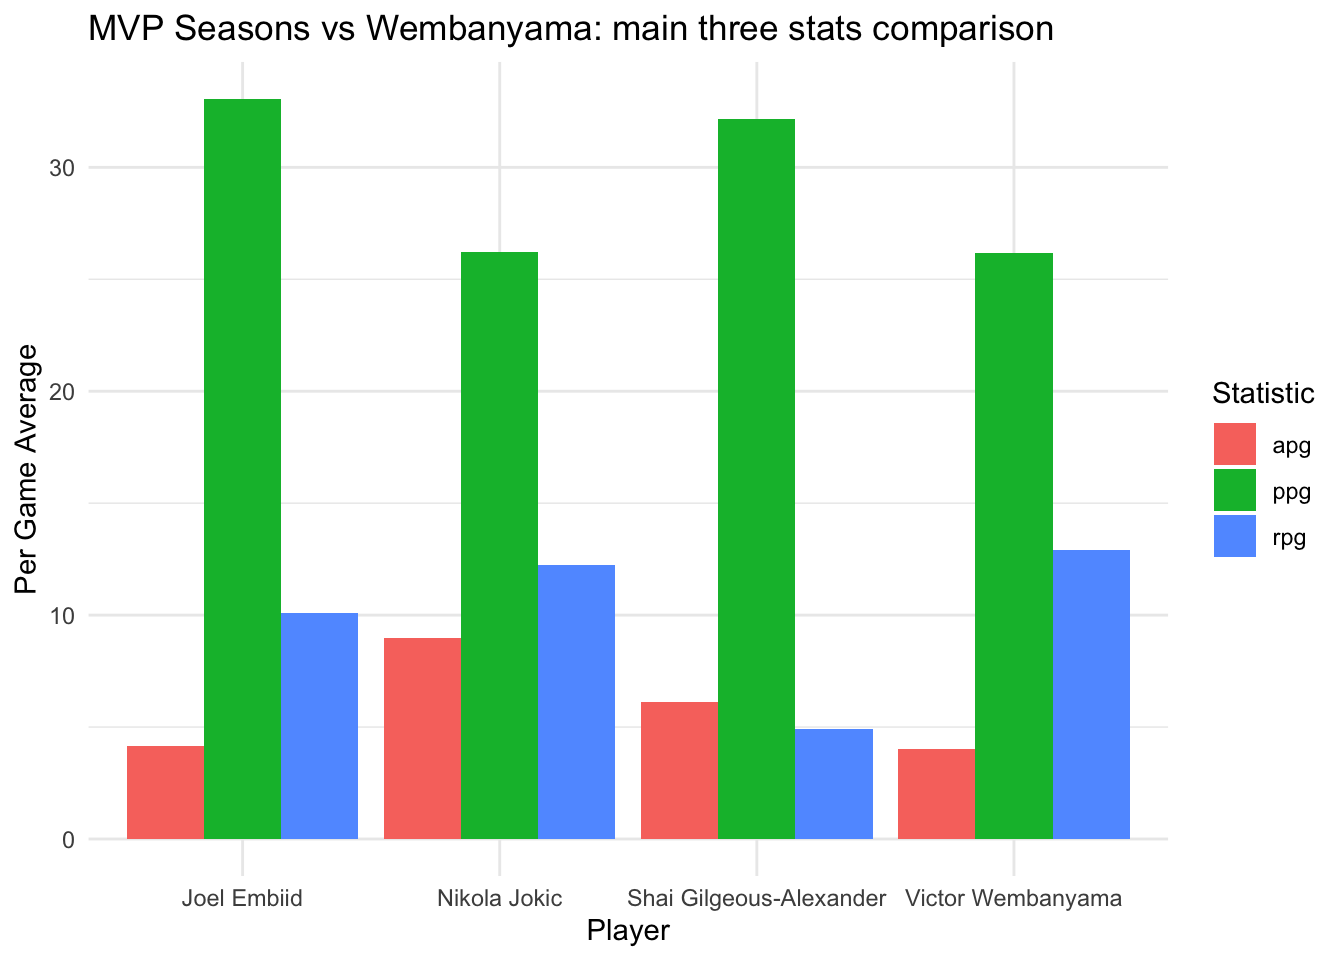
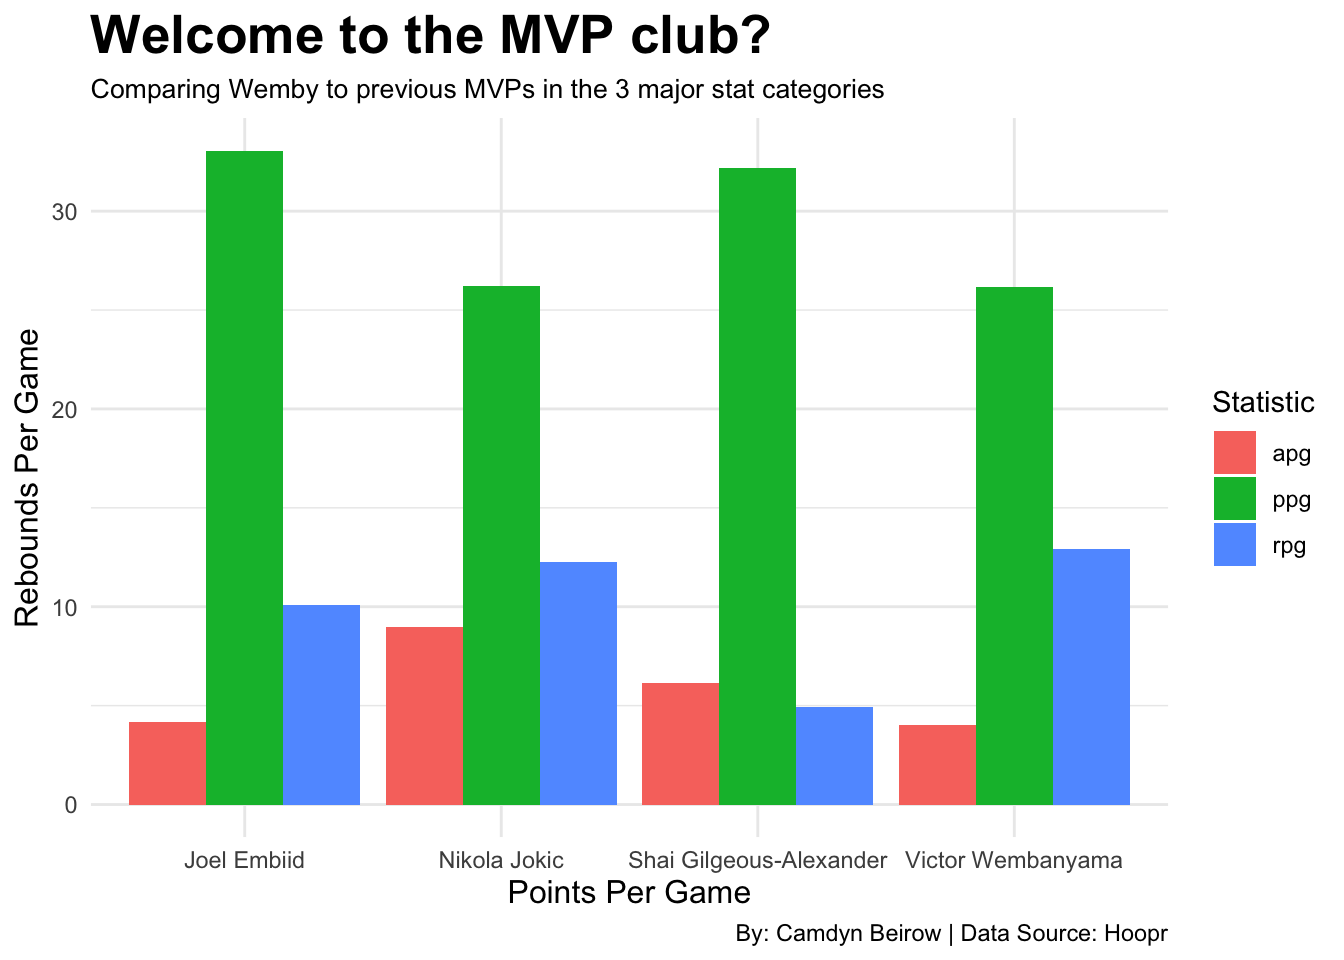
Proof1

diff --git a/posts/wembys-case-for-mvp/index.html b/posts/wembys-case-for-mvp/index.html
@@ -9,7 +9,7 @@
 <meta name="author" content="Camdyn Beirow">
 <meta name="dcterms.date" content="2025-11-04">
 
-<title>Will Victor Wembanyama be the 2026 NBA MVP? – Camdyn’s Sport Blog</title>
+<title>Victor Wembanyama and his case for 2026 NBA MVP – Camdyn’s Sport Blog</title>
 <style>
 code{white-space: pre-wrap;}
 span.smallcaps{font-variant: small-caps;}
@@ -149,7 +149,7 @@ pre > code.sourceCode > span > a:first-child::before { text-decoration: underlin
 <header id="title-block-header" class="quarto-title-block default page-columns page-full">
   <div class="quarto-title-banner page-columns page-full">
     <div class="quarto-title column-body">
-      <h1 class="title">Will Victor Wembanyama be the 2026 NBA MVP?</h1>
+      <h1 class="title">Victor Wembanyama and his case for 2026 NBA MVP</h1>
                                 <div class="quarto-categories">
                 <div class="quarto-category">NBA</div>
                 <div class="quarto-category">Wembanyama</div>
@@ -189,7 +189,7 @@ pre > code.sourceCode > span > a:first-child::before { text-decoration: underlin
 
 
 
-<p>Victor Wembanyama is the closest thing to an alien we have ever seen. The French big man stands at 7’4 and is putting up MVP numbers in his third season with the San Antonio Spurs. compared to the former NBA MVPs, it appears that Wemby could very well be on pace to win the league’s highest honor.</p>
+<p>Victor Wembanyama is the closest thing to an alien we have ever seen. The French big man stands at 7’4 and is putting up MVP numbers in his third season with the San Antonio Spurs. compared to the former NBA MVPs stats, it appears that Wemby could very well be on pace to win the league’s highest honor if he keeps up or even improves on his stats.</p>
 <div class="cell">
 <details class="code-fold">
 <summary>Code</summary>
@@ -307,7 +307,17 @@ pre > code.sourceCode > span > a:first-child::before { text-decoration: underlin
 <span id="cb1-112"><a href="#cb1-112" aria-hidden="true" tabindex="-1"></a>       <span class="at">x =</span> <span class="st">"Player"</span>,</span>
 <span id="cb1-113"><a href="#cb1-113" aria-hidden="true" tabindex="-1"></a>       <span class="at">y =</span> <span class="st">"Per Game Average"</span>,</span>
 <span id="cb1-114"><a href="#cb1-114" aria-hidden="true" tabindex="-1"></a>       <span class="at">fill =</span> <span class="st">"Statistic"</span>) <span class="sc">+</span></span>
-<span id="cb1-115"><a href="#cb1-115" aria-hidden="true" tabindex="-1"></a>  <span class="fu">theme_minimal</span>()</span></code><button title="Copy to Clipboard" class="code-copy-button"><i class="bi"></i></button></pre></div>
+<span id="cb1-115"><a href="#cb1-115" aria-hidden="true" tabindex="-1"></a>  <span class="fu">labs</span>(<span class="at">title =</span> <span class="st">"Welcome to the MVP club?"</span>,</span>
+<span id="cb1-116"><a href="#cb1-116" aria-hidden="true" tabindex="-1"></a>       <span class="at">subtitle =</span> <span class="st">"Comparing Wemby to previous MVPs in the 3 major stat categories"</span>,</span>
+<span id="cb1-117"><a href="#cb1-117" aria-hidden="true" tabindex="-1"></a>       <span class="at">x =</span> <span class="st">"Points Per Game"</span>,</span>
+<span id="cb1-118"><a href="#cb1-118" aria-hidden="true" tabindex="-1"></a>       <span class="at">y =</span> <span class="st">"Rebounds Per Game"</span>,</span>
+<span id="cb1-119"><a href="#cb1-119" aria-hidden="true" tabindex="-1"></a>       <span class="at">caption =</span> <span class="st">"By: Camdyn Beirow | Data Source: Hoopr"</span>) <span class="sc">+</span></span>
+<span id="cb1-120"><a href="#cb1-120" aria-hidden="true" tabindex="-1"></a>  <span class="fu">theme_minimal</span>() <span class="sc">+</span> </span>
+<span id="cb1-121"><a href="#cb1-121" aria-hidden="true" tabindex="-1"></a>  <span class="fu">theme</span>(</span>
+<span id="cb1-122"><a href="#cb1-122" aria-hidden="true" tabindex="-1"></a>    <span class="at">plot.title =</span> <span class="fu">element_text</span>(<span class="at">size =</span> <span class="dv">20</span>, <span class="at">face =</span> <span class="st">"bold"</span>),</span>
+<span id="cb1-123"><a href="#cb1-123" aria-hidden="true" tabindex="-1"></a>    <span class="at">axis.title =</span> <span class="fu">element_text</span>(<span class="at">size =</span> <span class="dv">12</span>), </span>
+<span id="cb1-124"><a href="#cb1-124" aria-hidden="true" tabindex="-1"></a>    <span class="at">plot.subtitle =</span> <span class="fu">element_text</span>(<span class="at">size=</span><span class="dv">10</span>)</span>
+<span id="cb1-125"><a href="#cb1-125" aria-hidden="true" tabindex="-1"></a>    ) </span></code><button title="Copy to Clipboard" class="code-copy-button"><i class="bi"></i></button></pre></div>
 </details>
 <div class="cell-output-display">
 <div>
@@ -317,7 +327,7 @@ pre > code.sourceCode > span > a:first-child::before { text-decoration: underlin
 </div>
 </div>
 </div>
-<p>Wembanyama’s Point, Assist, and Rebound averages are shown above in comparison to the previous three MVP’s averages when they won the honor.</p>
+<p>Wembanyama’s Point , Assist, and Rebound averages are shown above in comparison to the previous three MVP’s averages when they won the honor. While early into the 2026 season, Wemby’s 26.2 points per game and 12.9 rebounds per game is keeping pace in points per game and rebounds per game with Denver Nuggets center Nikola Jokic’s during his 2024 MVP season. Joel Embiid’s 2023 season only saw him play in 39 games, less than half of the NBA season, potentially boosting his average stats.</p>
 <div class="cell">
 <details class="code-fold">
 <summary>Code</summary>
@@ -333,8 +343,8 @@ pre > code.sourceCode > span > a:first-child::before { text-decoration: underlin
 <span id="cb2-10"><a href="#cb2-10" aria-hidden="true" tabindex="-1"></a>  <span class="fu">geom_text</span>(<span class="at">data =</span> wemby26avg, <span class="fu">aes</span>(<span class="at">x =</span> <span class="dv">28</span>, <span class="at">y =</span> <span class="fl">13.4</span>, <span class="at">label =</span> <span class="st">"Victor Wembanyama"</span>),</span>
 <span id="cb2-11"><a href="#cb2-11" aria-hidden="true" tabindex="-1"></a>    <span class="at">size =</span> <span class="dv">3</span></span>
 <span id="cb2-12"><a href="#cb2-12" aria-hidden="true" tabindex="-1"></a>  ) <span class="sc">+</span></span>
-<span id="cb2-13"><a href="#cb2-13" aria-hidden="true" tabindex="-1"></a>  <span class="fu">labs</span>(<span class="at">title =</span> <span class="st">"2026 NBA Points and Rebound Averages"</span>,</span>
-<span id="cb2-14"><a href="#cb2-14" aria-hidden="true" tabindex="-1"></a>       <span class="at">subtitle =</span> <span class="st">"When it comes to points and rebounding, wemby is among little company"</span>,</span>
+<span id="cb2-13"><a href="#cb2-13" aria-hidden="true" tabindex="-1"></a>  <span class="fu">labs</span>(<span class="at">title =</span> <span class="st">"Among Little Company"</span>,</span>
+<span id="cb2-14"><a href="#cb2-14" aria-hidden="true" tabindex="-1"></a>       <span class="at">subtitle =</span> <span class="st">"When it comes to scoring and rebounding, wemby is joined by elite few in the modern era"</span>,</span>
 <span id="cb2-15"><a href="#cb2-15" aria-hidden="true" tabindex="-1"></a>       <span class="at">x =</span> <span class="st">"Points Per Game"</span>,</span>
 <span id="cb2-16"><a href="#cb2-16" aria-hidden="true" tabindex="-1"></a>       <span class="at">y =</span> <span class="st">"Rebounds Per Game"</span>,</span>
 <span id="cb2-17"><a href="#cb2-17" aria-hidden="true" tabindex="-1"></a>       <span class="at">caption =</span> <span class="st">"By: Camdyn Beirow | Data Source: Hoopr"</span>) <span class="sc">+</span></span>
@@ -353,7 +363,7 @@ pre > code.sourceCode > span > a:first-child::before { text-decoration: underlin
 </div>
 </div>
 </div>
-<p>sdfghjkl./lkjhgfd</p>
+<p>Looking at the 2026 NBA seasons points per game and rebounds per game, Wemby is exceeding a majority of his peers. Among his peers with a minimum of 15 points per game, wemby sits among the top, sharing the top shelf with Nikola Jokic, who is to his right. In terms of NBA big men, Wembanyama is setting the standard for modern players.</p>
 <div class="cell">
 <details class="code-fold">
 <summary>Code</summary>
@@ -362,7 +372,7 @@ pre > code.sourceCode > span > a:first-child::before { text-decoration: underlin
 <span id="cb3-3"><a href="#cb3-3" aria-hidden="true" tabindex="-1"></a>  <span class="fu">geom_step</span>(<span class="at">linewidth =</span> <span class="fl">1.2</span>) <span class="sc">+</span></span>
 <span id="cb3-4"><a href="#cb3-4" aria-hidden="true" tabindex="-1"></a>  <span class="fu">geom_point</span>(<span class="at">size =</span> <span class="dv">2</span>) <span class="sc">+</span></span>
 <span id="cb3-5"><a href="#cb3-5" aria-hidden="true" tabindex="-1"></a>  <span class="fu">labs</span>(<span class="at">title =</span> <span class="st">"Wemby's Stock is Through the Roof"</span>,</span>
-<span id="cb3-6"><a href="#cb3-6" aria-hidden="true" tabindex="-1"></a>       <span class="at">subtitle =</span> <span class="st">"And not just his value, but his Stock Steal and Block stat combo towers among his former MVP peers"</span>,</span>
+<span id="cb3-6"><a href="#cb3-6" aria-hidden="true" tabindex="-1"></a>       <span class="at">subtitle =</span> <span class="st">"Wemby's Steals and Blocks, or stocks, stat combo towers among his former MVP peers"</span>,</span>
 <span id="cb3-7"><a href="#cb3-7" aria-hidden="true" tabindex="-1"></a>       <span class="at">x =</span> <span class="st">"Games"</span>, </span>
 <span id="cb3-8"><a href="#cb3-8" aria-hidden="true" tabindex="-1"></a>       <span class="at">y =</span> <span class="st">"Cumulative Stocks (Steals + Blocks)"</span>,</span>
 <span id="cb3-9"><a href="#cb3-9" aria-hidden="true" tabindex="-1"></a>       <span class="at">caption =</span> <span class="st">"By: Camdyn Beirow | Data Source: Hoopr"</span>) <span class="sc">+</span></span>
@@ -383,6 +393,7 @@ pre > code.sourceCode > span > a:first-child::before { text-decoration: underlin
 </div>
 </div>
 </div>
+<p>If defense wins championships, then defense must also matter in the MVP discussion. Wemby’s steals and blocks, also known as “stocks”, towers above the previous MVP winners numbers through their first ten games in the season. During his first ten games, Wemby’s single-game high in stocks was 9 against the Brooklyn Nets, while also scoring 31 points on the offensive side. during his 10 game strech, Wemby has more stocks than the last two big men MVP winners combined in that strech.</p>
 <div class="cell">
 <details class="code-fold">
 <summary>Code</summary>
@@ -391,16 +402,21 @@ pre > code.sourceCode > span > a:first-child::before { text-decoration: underlin
 <span id="cb4-3"><a href="#cb4-3" aria-hidden="true" tabindex="-1"></a>  <span class="fu">geom_point</span>(<span class="at">data =</span> wemby_fg_minutes, <span class="fu">aes</span>(<span class="at">x =</span> ppg, <span class="at">y =</span> fg_pct, <span class="at">size =</span> mpg), </span>
 <span id="cb4-4"><a href="#cb4-4" aria-hidden="true" tabindex="-1"></a>             <span class="at">color =</span> <span class="st">"red"</span>, <span class="at">alpha =</span> <span class="dv">1</span>) <span class="sc">+</span></span>
 <span id="cb4-5"><a href="#cb4-5" aria-hidden="true" tabindex="-1"></a>  <span class="fu">geom_text</span>(<span class="at">data =</span> wemby_fg_minutes, <span class="fu">aes</span>(<span class="at">label =</span> <span class="st">"Victor Wembanyama"</span>),</span>
-<span id="cb4-6"><a href="#cb4-6" aria-hidden="true" tabindex="-1"></a>            <span class="at">hjust =</span> <span class="sc">-</span><span class="fl">0.1</span>, <span class="at">vjust =</span> <span class="fl">0.3</span>, <span class="at">size =</span> <span class="fl">3.5</span>, <span class="at">color =</span> <span class="st">"red"</span>) <span class="sc">+</span></span>
-<span id="cb4-7"><a href="#cb4-7" aria-hidden="true" tabindex="-1"></a>  <span class="fu">scale_y_continuous</span>(<span class="at">labels =</span> scales<span class="sc">::</span>percent) <span class="sc">+</span></span>
-<span id="cb4-8"><a href="#cb4-8" aria-hidden="true" tabindex="-1"></a>  <span class="fu">scale_size_continuous</span>(<span class="at">range =</span> <span class="fu">c</span>(<span class="dv">1</span>, <span class="dv">6</span>)) <span class="sc">+</span></span>
-<span id="cb4-9"><a href="#cb4-9" aria-hidden="true" tabindex="-1"></a>  <span class="fu">labs</span>(<span class="at">title =</span> <span class="st">"2026 NBA Season: Scoring Efficiency vs Volume"</span>,</span>
-<span id="cb4-10"><a href="#cb4-10" aria-hidden="true" tabindex="-1"></a>       <span class="at">subtitle =</span> <span class="st">"Field Goal Percentage vs Points Per Game (Wemby in red)</span><span class="sc">\n</span><span class="st">Point size = Minutes Per Game"</span>,</span>
-<span id="cb4-11"><a href="#cb4-11" aria-hidden="true" tabindex="-1"></a>       <span class="at">x =</span> <span class="st">"Points Per Game"</span>,</span>
-<span id="cb4-12"><a href="#cb4-12" aria-hidden="true" tabindex="-1"></a>       <span class="at">y =</span> <span class="st">"Field Goal Percentage"</span>,</span>
-<span id="cb4-13"><a href="#cb4-13" aria-hidden="true" tabindex="-1"></a>       <span class="at">size =</span> <span class="st">"Minutes Per Game"</span>,</span>
-<span id="cb4-14"><a href="#cb4-14" aria-hidden="true" tabindex="-1"></a><span class="at">caption =</span> <span class="st">"By: Camdyn Beirow | Data Source: Hoopr"</span>) <span class="sc">+</span></span>
-<span id="cb4-15"><a href="#cb4-15" aria-hidden="true" tabindex="-1"></a>  <span class="fu">theme_minimal</span>()</span></code><button title="Copy to Clipboard" class="code-copy-button"><i class="bi"></i></button></pre></div>
+<span id="cb4-6"><a href="#cb4-6" aria-hidden="true" tabindex="-1"></a>            <span class="at">hjust =</span> <span class="sc">-</span><span class="fl">0.1</span>, <span class="at">vjust =</span> <span class="dv">1</span>, <span class="at">size =</span> <span class="fl">3.5</span>, <span class="at">color =</span> <span class="st">"red"</span>) <span class="sc">+</span></span>
+<span id="cb4-7"><a href="#cb4-7" aria-hidden="true" tabindex="-1"></a>  <span class="fu">geom_smooth</span>(<span class="at">data=</span>fg_pct_minutes, <span class="fu">aes</span>(<span class="at">x=</span>ppg, <span class="at">y=</span>fg_pct), <span class="at">method=</span><span class="st">"lm"</span>)<span class="sc">+</span></span>
+<span id="cb4-8"><a href="#cb4-8" aria-hidden="true" tabindex="-1"></a>  <span class="fu">scale_y_continuous</span>(<span class="at">labels =</span> scales<span class="sc">::</span>percent) <span class="sc">+</span></span>
+<span id="cb4-9"><a href="#cb4-9" aria-hidden="true" tabindex="-1"></a>  <span class="fu">scale_size_continuous</span>(<span class="at">range =</span> <span class="fu">c</span>(<span class="dv">1</span>, <span class="dv">6</span>)) <span class="sc">+</span></span>
+<span id="cb4-10"><a href="#cb4-10" aria-hidden="true" tabindex="-1"></a>  <span class="fu">labs</span>(<span class="at">title =</span> <span class="st">"Efficiency is the name of the game"</span>,</span>
+<span id="cb4-11"><a href="#cb4-11" aria-hidden="true" tabindex="-1"></a>       <span class="at">subtitle =</span> <span class="st">"While not the most lights out shooter, Wemby performs well for his role"</span>,</span>
+<span id="cb4-12"><a href="#cb4-12" aria-hidden="true" tabindex="-1"></a>       <span class="at">x =</span> <span class="st">"Points Per Game"</span>,</span>
+<span id="cb4-13"><a href="#cb4-13" aria-hidden="true" tabindex="-1"></a>       <span class="at">y =</span> <span class="st">"Rebounds Per Game"</span>,</span>
+<span id="cb4-14"><a href="#cb4-14" aria-hidden="true" tabindex="-1"></a>       <span class="at">caption =</span> <span class="st">"By: Camdyn Beirow | Data Source: Hoopr"</span>) <span class="sc">+</span></span>
+<span id="cb4-15"><a href="#cb4-15" aria-hidden="true" tabindex="-1"></a>  <span class="fu">theme_minimal</span>() <span class="sc">+</span> </span>
+<span id="cb4-16"><a href="#cb4-16" aria-hidden="true" tabindex="-1"></a>  <span class="fu">theme</span>(</span>
+<span id="cb4-17"><a href="#cb4-17" aria-hidden="true" tabindex="-1"></a>    <span class="at">plot.title =</span> <span class="fu">element_text</span>(<span class="at">size =</span> <span class="dv">20</span>, <span class="at">face =</span> <span class="st">"bold"</span>),</span>
+<span id="cb4-18"><a href="#cb4-18" aria-hidden="true" tabindex="-1"></a>    <span class="at">axis.title =</span> <span class="fu">element_text</span>(<span class="at">size =</span> <span class="dv">12</span>), </span>
+<span id="cb4-19"><a href="#cb4-19" aria-hidden="true" tabindex="-1"></a>    <span class="at">plot.subtitle =</span> <span class="fu">element_text</span>(<span class="at">size=</span><span class="dv">10</span>)</span>
+<span id="cb4-20"><a href="#cb4-20" aria-hidden="true" tabindex="-1"></a>    ) </span></code><button title="Copy to Clipboard" class="code-copy-button"><i class="bi"></i></button></pre></div>
 </details>
 <div class="cell-output-display">
 <div>
@@ -410,6 +426,8 @@ pre > code.sourceCode > span > a:first-child::before { text-decoration: underlin
 </div>
 </div>
 </div>
+<p>Big men historically are not known to shoot the ball well. Victor Wembanyama is apart of the new wave of NBA big men who are able to shoot the ball at an efficient percentage. While not the highest percentage shooter, Wemby is performing well for his amount of points scored per game, shooting above the 50% mark at 50.2% for the 2025-2026 season. While not shooting the lights out, Wemby is performing how you would expect an NBA player with 26.2 ppg, as you can see with the average field goal percentage line based on points per game. When you add in that fact that he is a 7’4 big man who mainly thrives in the paint, his field goal percentage is impresive.</p>
+<p>Victor Wembanyama is on the track to grab MVP honors for the first time in his career if he can keep this pace up throughout the 20205-2026 NBA season. Only time will tell if and when we will see “The Alien” earn what is potentially his.</p>
 
 
 

diff --git a/index.html b/index.html
@@ -205,7 +205,7 @@ window.Quarto = {
 
 <div class="quarto-listing quarto-listing-container-default" id="listing-listing">
 <div class="list quarto-listing-default">
-<div class="quarto-post image-right" data-index="0" data-categories="TkJBJTJDV2VtYmFueWFtYQ==" data-listing-date-sort="1762236000000" data-listing-file-modified-sort="1763301694548" data-listing-date-modified-sort="NaN" data-listing-reading-time-sort="7" data-listing-word-count-sort="1303">
+<div class="quarto-post image-right" data-index="0" data-categories="TkJBJTJDV2VtYmFueWFtYQ==" data-listing-date-sort="1762236000000" data-listing-file-modified-sort="1763331052893" data-listing-date-modified-sort="NaN" data-listing-reading-time-sort="10" data-listing-word-count-sort="1815">
 <div class="thumbnail">
 <p><a href="./posts/wembys-case-for-mvp/index.html" class="no-external"></a></p><a href="./posts/wembys-case-for-mvp/index.html" class="no-external">
 <p><img loading="lazy" src="./posts/wembys-case-for-mvp/image.png" class="thumbnail-image"></p>
@@ -213,7 +213,7 @@ window.Quarto = {
 </div>
 <div class="body">
 <h3 class="no-anchor listing-title">
-<a href="./posts/wembys-case-for-mvp/index.html" class="no-external">Will Victor Wembanyama be the 2026 NBA MVP?</a>
+<a href="./posts/wembys-case-for-mvp/index.html" class="no-external">Victor Wembanyama and his case for 2026 NBA MVP</a>
 </h3>
 <div class="listing-subtitle">
 <a href="./posts/wembys-case-for-mvp/index.html" class="no-external"></a>
